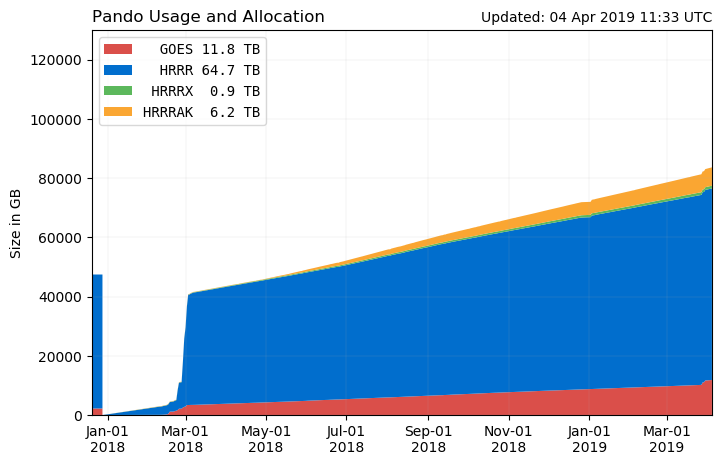
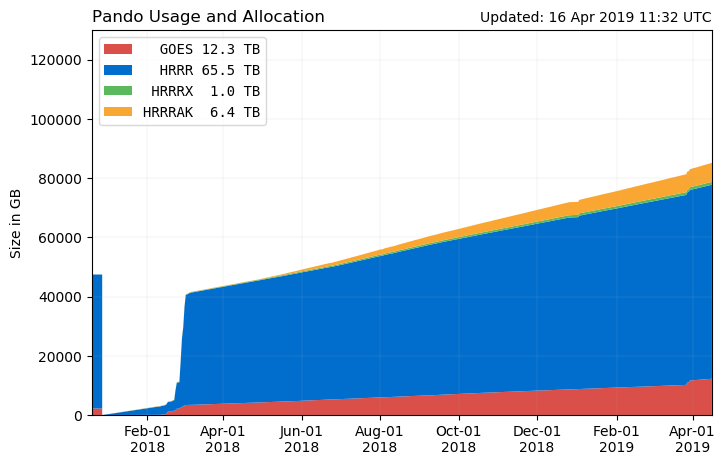
updates

diff --git a/Pando_archive/index.html b/Pando_archive/index.html
@@ -46,7 +46,7 @@
 
 <br>
   <script src='./js/pando_status.js'></script>
-    <center><font size=12> 83.7 TB out of 130 TB</font>
+    <center><font size=12> 85.2 TB out of 130 TB</font>
     <div class="progress" style="max-width:700px;height:35px">
             <div class="progress-bar progress-bar-danger" role="progressbar" style="width:9%">
               <font size=4></font>
@@ -73,9 +73,9 @@
         <th style='text-align:center'>Estimated Full Date</th>
       </tr>
       <tr>
-        <td>122.13 GB</td>
-        <td>379</td>
-        <td>17 April 2020</td>
+        <td>119.73 GB</td>
+        <td>374</td>
+        <td>24 April 2020</td>
       </tr>
     </table>
     <table class="table table-bordered" style='text-align:center;max-width:700px'>
@@ -86,18 +86,18 @@
       </tr>
       <tr>
         <th style='text-align:right'>ABI-L2-MCMIPC</th>
-        <td>15.75</td>
-        <td>16.31</td>
+        <td>13.68</td>
+        <td>14.53</td>
       </tr>
       <tr>
         <th style='text-align:right'>GLM-L2-LCFA</th>
-        <td>1.34</td>
-        <td>0.89</td>
+        <td>1.86</td>
+        <td>0.75</td>
       </tr>
       <tr>
         <th style='text-align:right'>Total</th>
-        <th style='text-align:center'>17.08 GB</th>
-        <th style='text-align:center'>17.20 GB</th>
+        <th style='text-align:center'>15.54 GB</th>
+        <th style='text-align:center'>15.29 GB</th>
       </tr>
     </table>
 
@@ -111,13 +111,13 @@
       </tr>
       <tr>
         <th style='text-align:right'>sfc</th>
-        <td>58.73</td>
-        <td>2.26</td>
-        <td>18.08</td>
+        <td>58.74</td>
+        <td>3.17</td>
+        <td>18.16</td>
       </tr>
       <tr>
         <th style='text-align:right'>prs</th>
-        <td>8.77</td>
+        <td>8.84</td>
         <td>0.00</td>
         <td>0.00</td>
       </tr>
@@ -129,9 +129,9 @@
       </tr>
       <tr>
         <th style='text-align:right'>Total</th>
-        <th style='text-align:center'>67.51 GB</th>
-        <th style='text-align:center'>2.26 GB</th>
-        <th style='text-align:center'>18.08 GB</th>
+        <th style='text-align:center'>67.58 GB</th>
+        <th style='text-align:center'>3.17 GB</th>
+        <th style='text-align:center'>18.16 GB</th>
       </tr>
     </table>
 
@@ -142,7 +142,7 @@
     <a href="https://github.com/blaylockbk/Web-Homepage/blob/master/Pando_archive/index.html"><i class="fab fa-github"></i> Page</a>
     <a href="https://github.com/blaylockbk/Web-Homepage/blob/master/Pando_archive/daily_usage.py"><i class="fab fa-github"></i> Plot</a>
     <br>
-    Last Updated: 04 Apr 2019 11:33 UTC
+    Last Updated: 16 Apr 2019 11:32 UTC
   </div>
 
 </div>

diff --git a/PhD.html b/PhD.html
@@ -2,7 +2,7 @@
 <html>
 
 <head>
-<title>Brian Blaylock, PhD</title>
+<title>Brian Blaylock, Ph.D.</title>
 <link rel="stylesheet" href="./css/brian_style.css" />
 <script src="./js/site/siteopen.js"></script>
 </head>
@@ -14,7 +14,7 @@
 
 <div id="content">
     <h1 align="center">
-    <i class="fa fa-graduation-cap fa-fw" aria-hidden="true"></i> PhD Research</h1>
+    <i class="fa fa-graduation-cap fa-fw" aria-hidden="true"></i> Ph.D. Research</h1>
   
   <hr>
   <p>My PhD research utilizes new technology for archiving and accessing output 
@@ -54,7 +54,7 @@
 			<div class='row'>
 				<div class="col-md-4">
 					<div class="panel panel-default">
-					<div class="panel-heading">Part 1</div>
+					<div class="panel-heading">Part 1: HRRR Archive</div>
 					<div class="panel-body" style="height:120px">
 						<h4 style="text-align: center">Cloud archiving and data mining of High-Resolution Rapid Refresh forecast model output</h4>
 					</div>
@@ -65,7 +65,7 @@
 				</div>
 				<div class="col-md-4">
 					<div class="panel panel-default">
-					<div class="panel-heading">Part 2</div>
+					<div class="panel-heading">Part 2: HRRR Climatology</div>
 					<div class="panel-body" style="height:120px">
 						<h4 style="text-align: center">High-Resolution Rapid Refresh Model Data Analytics Derived on the Open Science Grid to Assist Wildland Fire Weather Assessment</h4>
 					</div>
@@ -76,9 +76,9 @@
 				</div>
 				<div class="col-md-4">
 						<div class="panel panel-default">
-						<div class="panel-heading">Part 3</div>
+						<div class="panel-heading">Part 3: HRRR and GOES Lightning</div>
 						<div class="panel-body" style="height:120px">
-							<h4 style="text-align: center"></h4>
+							<h4 style="text-align: center">Using the Geostationary Lightning Mapper to assess High-Resolution Rapid Refresh model convective forecasts</h4>
 						</div>
 						<div class="panel-footer">
 							...

diff --git a/hrrr_golf.html b/hrrr_golf.html
@@ -132,9 +132,13 @@
           <img src="./images/lagoon.png" height="40px"></a>
 
           <a href="http://home.chpc.utah.edu/~u0553130/Brian_Blaylock/cgi-bin/photo_viewer_golf.cgi?LOC=UtahLake" class="btn btn-default btn-block">
-          <img src='./images/lew_ski.png' height="90px">  Utah Lake</a>
+          <img src='./images/lew_ski_crop.png' height="90px">  Utah Lake</a>
+
+          <a href="http://home.chpc.utah.edu/~u0553130/Brian_Blaylock/cgi-bin/photo_viewer_golf.cgi?LOC=KCNY" class="btn btn-default btn-block">
+          <img src='./images/moab.png' height="80px" style='padding:0px'></a>
           
-          <a href="http://home.chpc.utah.edu/~u0553130/Brian_Blaylock/cgi-bin/photo_viewer_golf.cgi?LOC=Orderville" class="btn btn-default btn-block">Orderville, UT</a>
+          <a href="http://home.chpc.utah.edu/~u0553130/Brian_Blaylock/cgi-bin/photo_viewer_golf.cgi?LOC=Orderville" class="btn btn-default btn-block">
+            <img src='./images/orderville.jpg' height="80px" style='padding:0px'></a>
 
       </div>
       <br><br>
